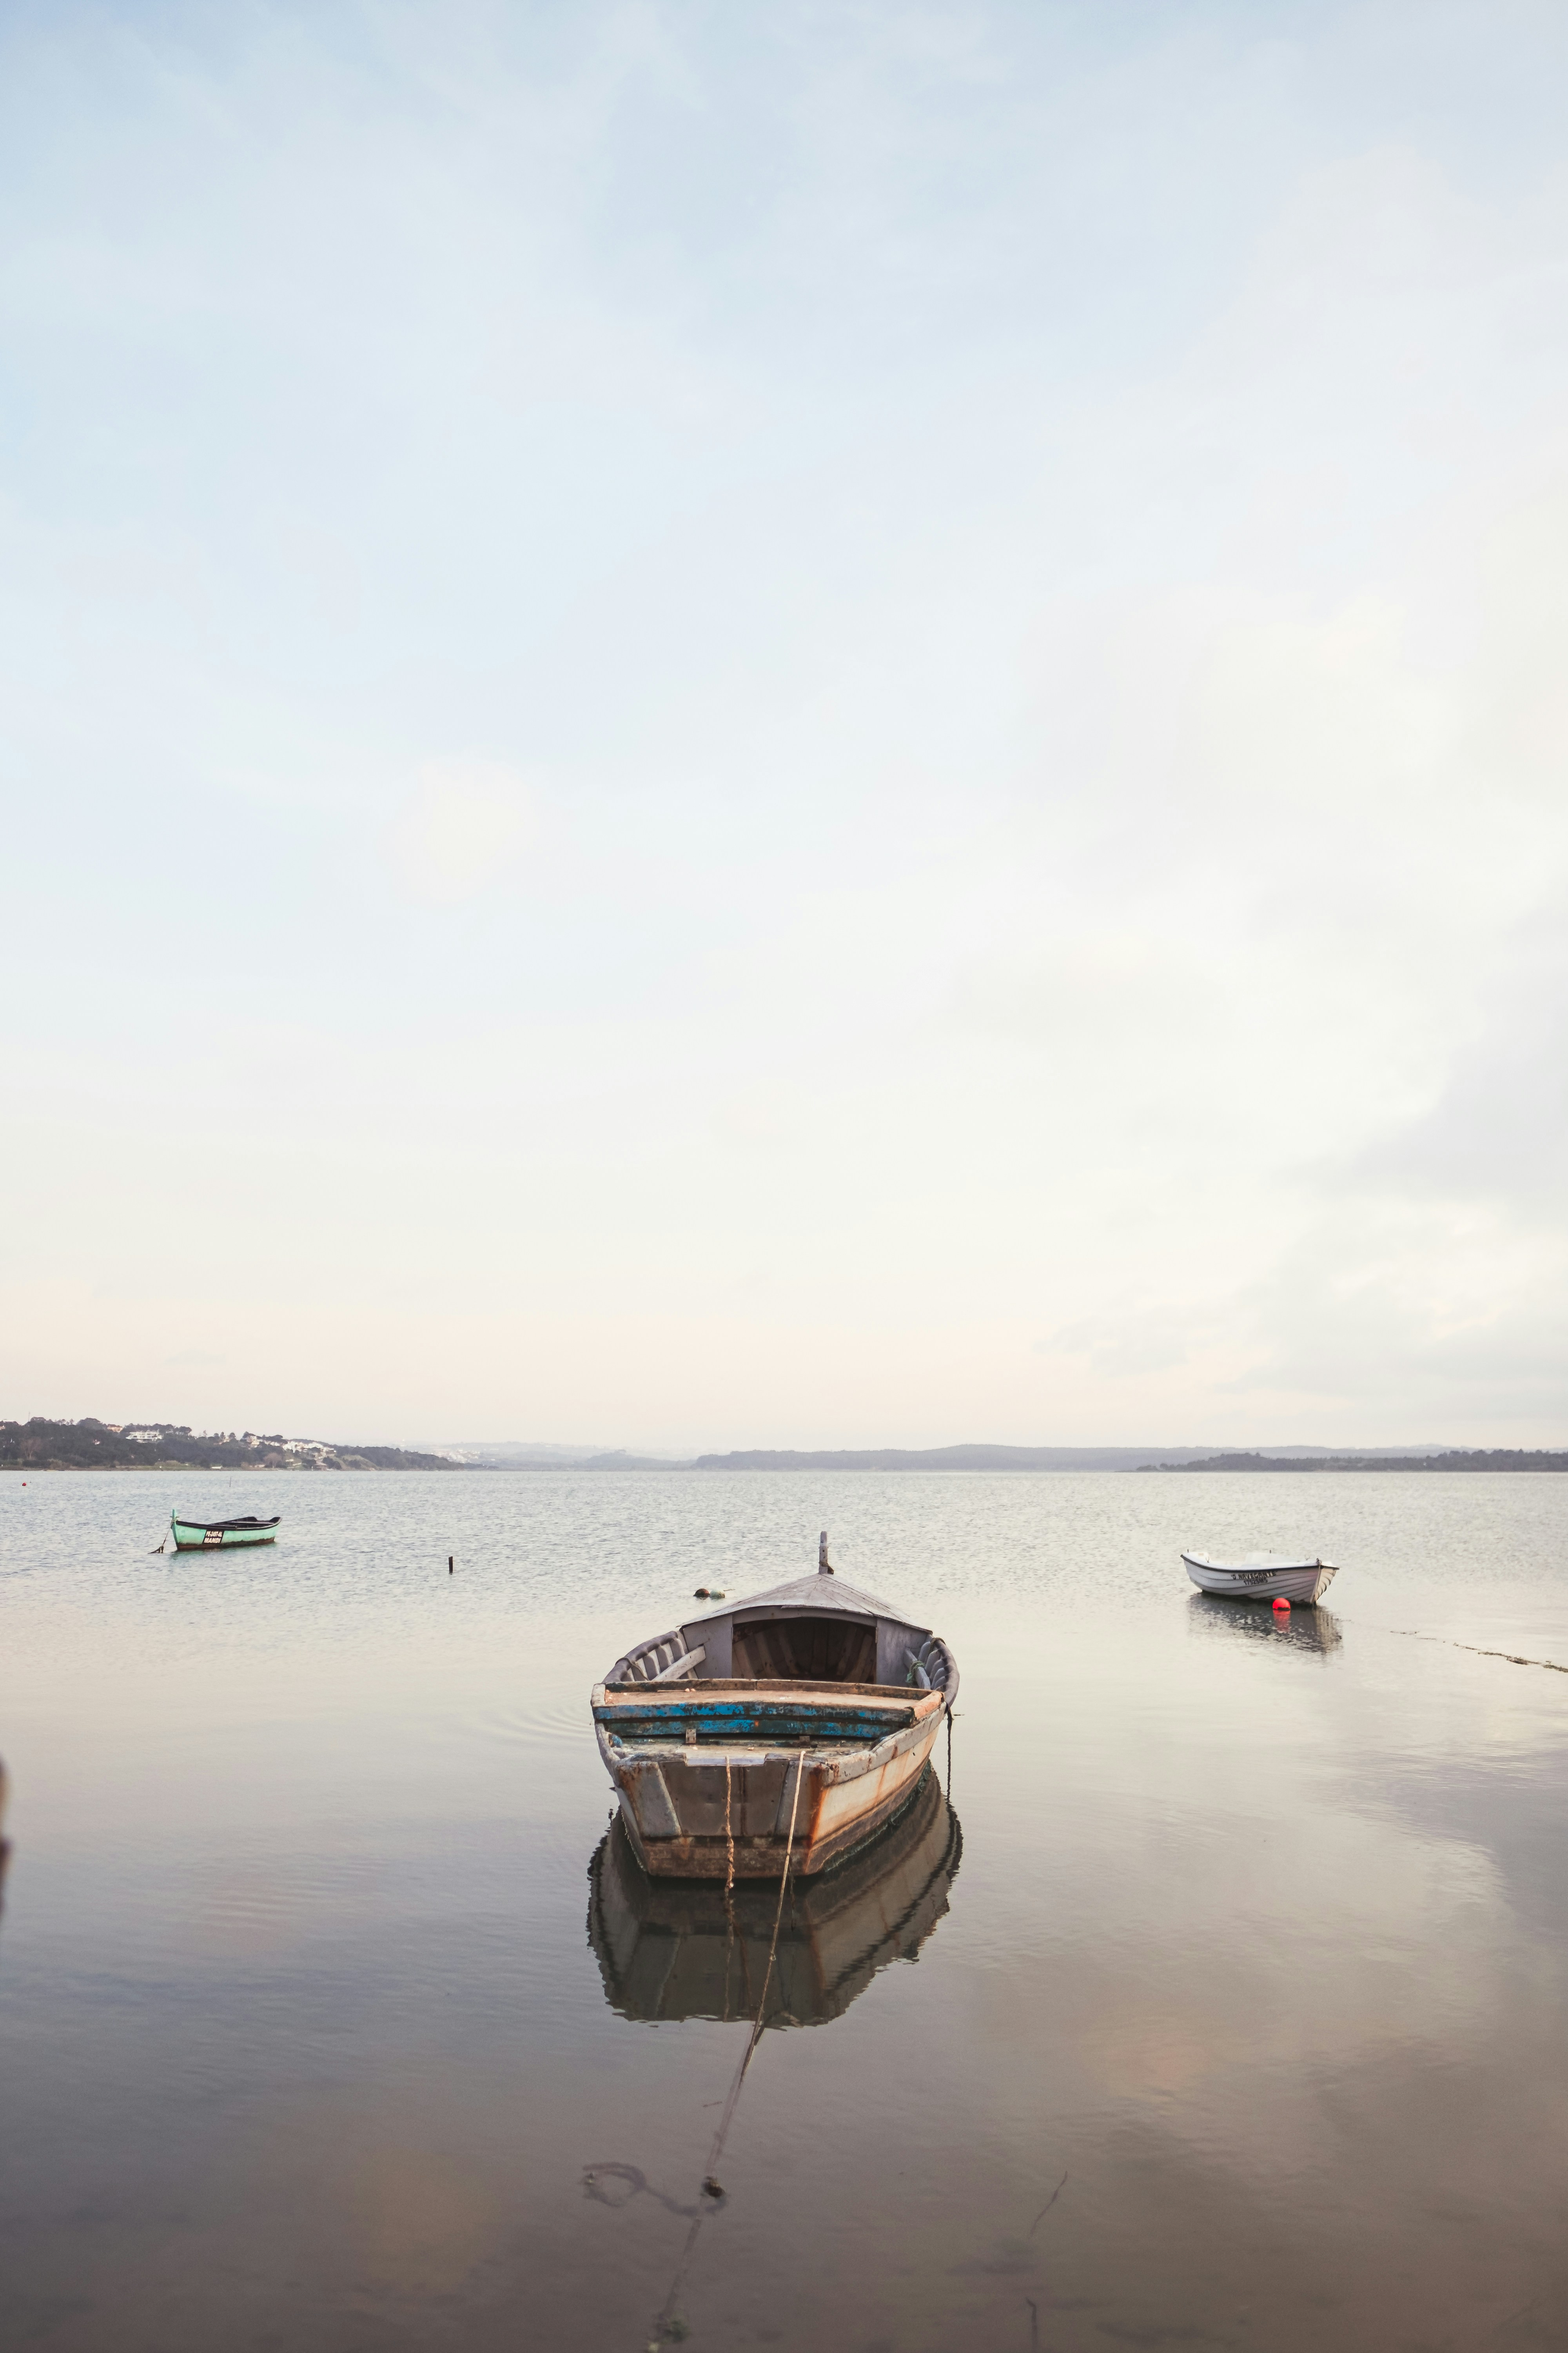
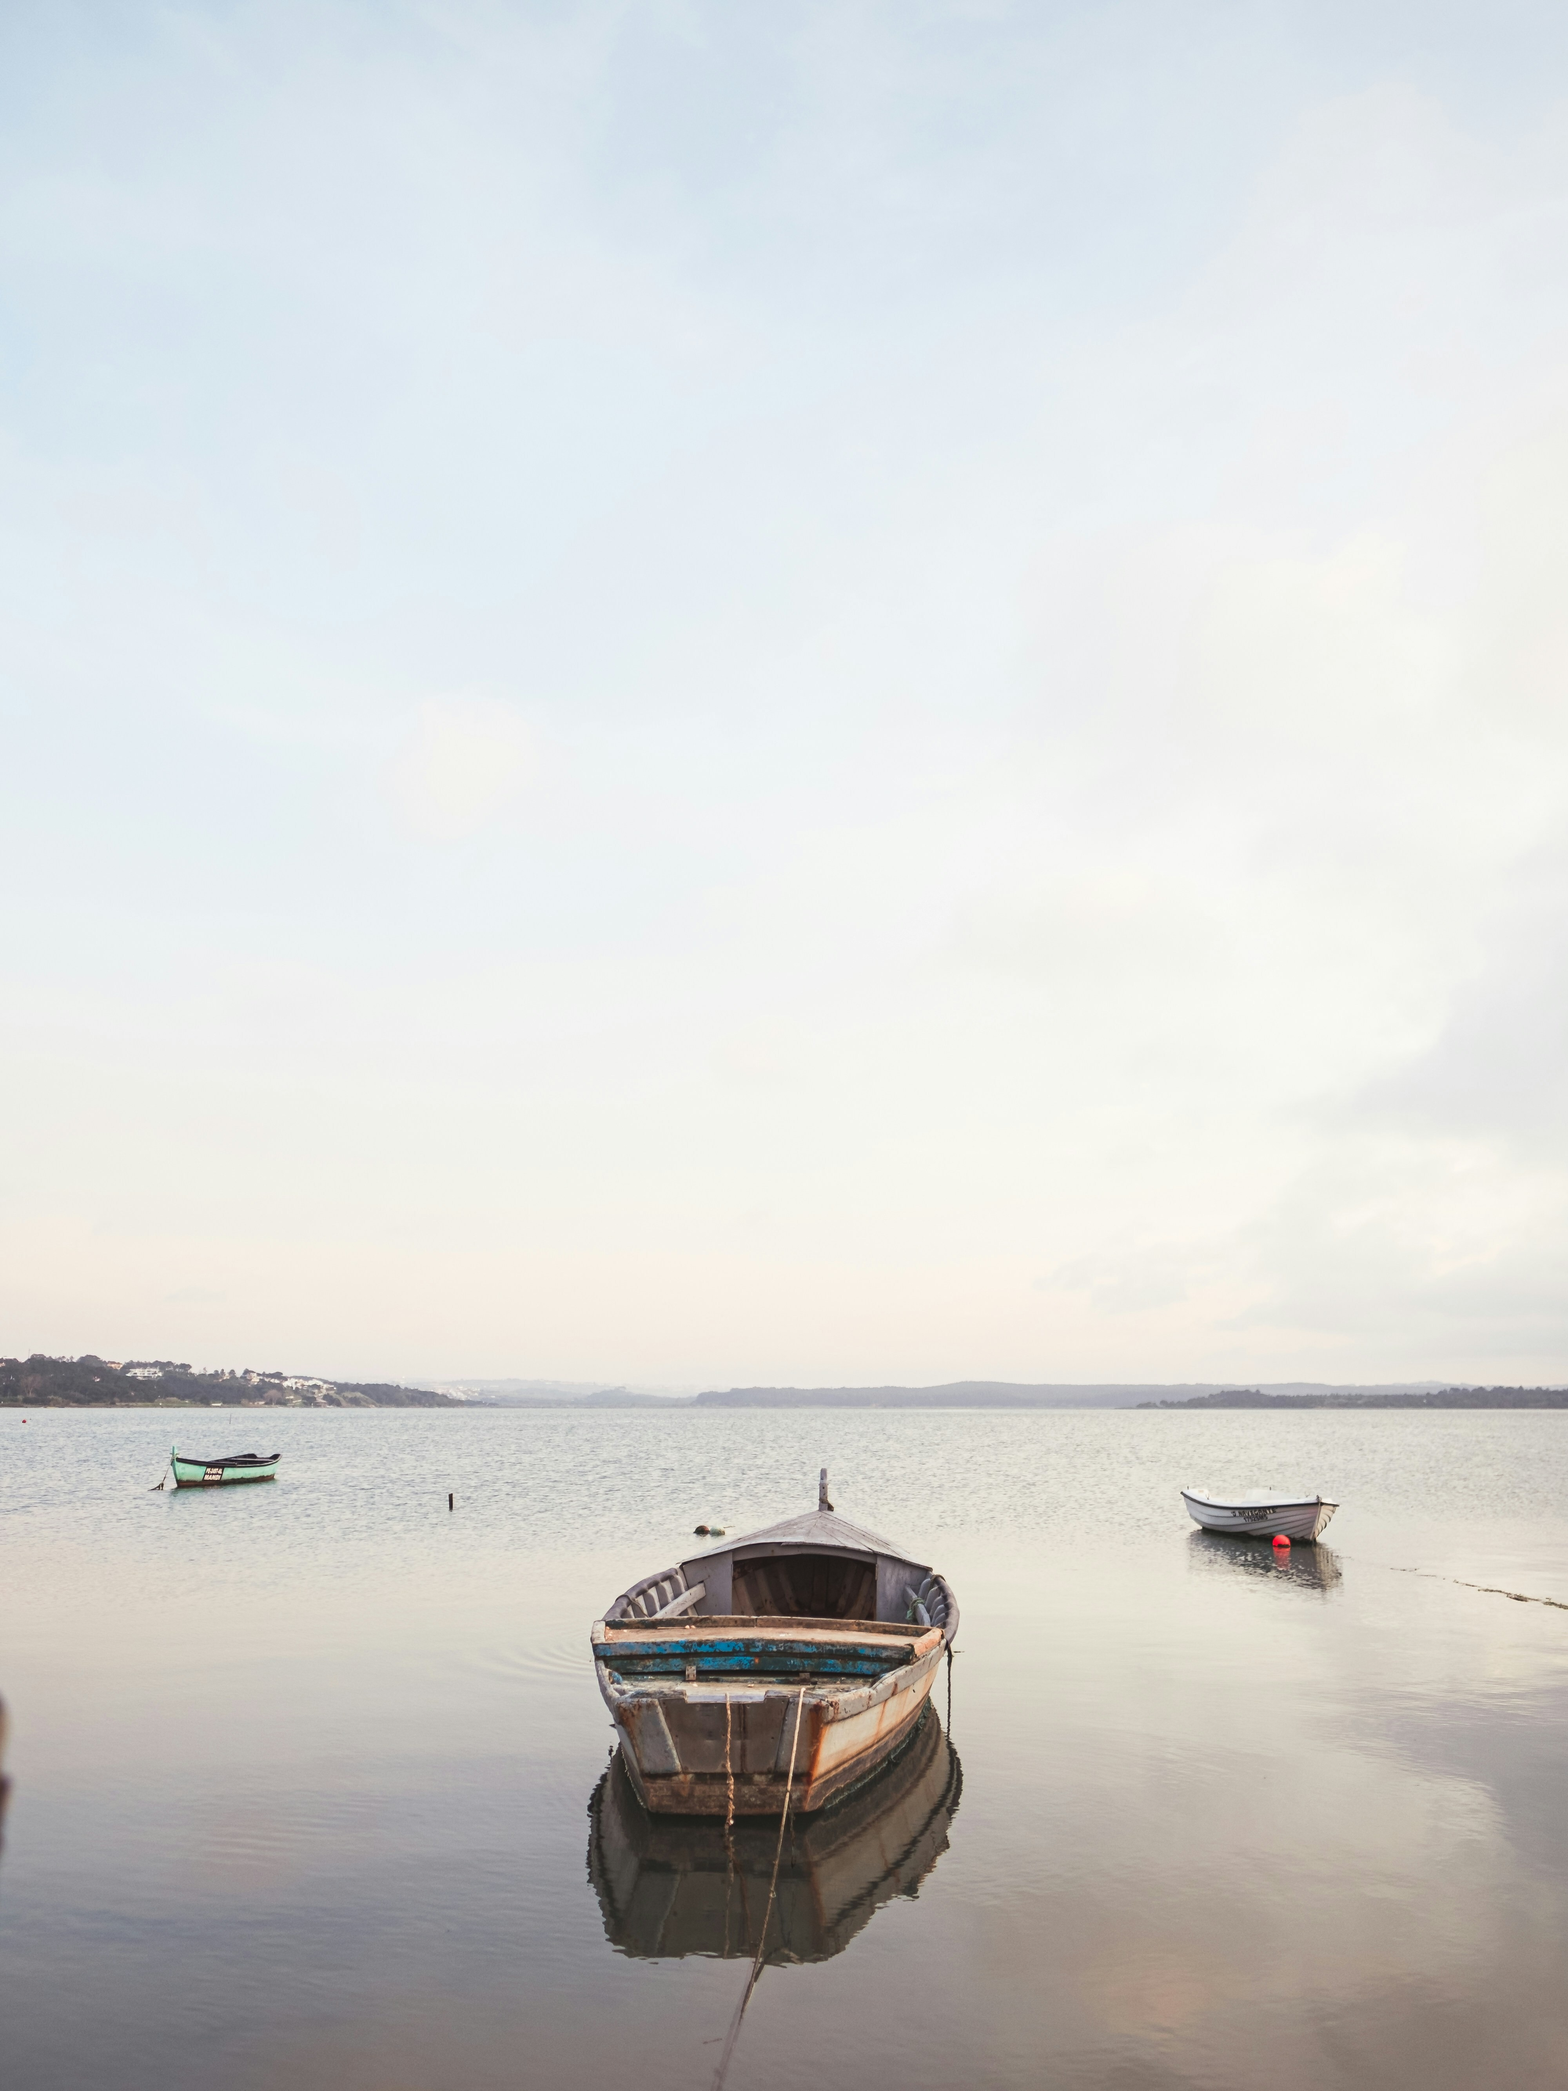
Corrected the images and added a responsive gallery

Changed region(s): [[0.0, 0.5914, 1.0, 1.0]]

diff --git a/index.html b/index.html
@@ -50,7 +50,7 @@
             </p>
           </div>
         </section>
-        <section class="secondary">
+        <section class="primary">
           <h3 class="text-center">Restaurants</h3>
           <h2 class="text-center">My favorite restaurants</h2>
 
@@ -165,6 +165,21 @@
                 >
               </div>
             </div>
+          </div>
+        </section>
+
+        <section class="secondary">
+          <h3 class="text-center">Gallery</h3>
+          <h2 class="text-center">Photos from Caldas da Rainha</h2>
+
+          <div class="grid grid-3c">
+            <img
+              src="images/umbrela.jpg"
+              class="img-responsive"
+              alt="umbrelas"
+            />
+            <img src="images/door.jpg" class="img-responsive" alt="door" />
+            <img src="images/beach.jpg" class="img-responsive" alt="beach" />
           </div>
         </section>
       </main>

diff --git a/src/style.css b/src/style.css
@@ -62,10 +62,11 @@ section {
   padding: 100px;
 }
 
-section.secondary {
+section.primary {
   background-color: #f8f8f8;
 }
 
+section.primary h2,
 section.secondary h2 {
   margin-bottom: 30px;
 }
@@ -86,7 +87,7 @@ main h3 {
 }
 
 main h2 {
-  font-weight: 600;
+  font-weight: 700;
   font-size: 40px;
   color: #1f2413d2;
   margin: 5px 0px;
@@ -228,6 +229,10 @@ footer p {
 
   .embed {
     aspect-ratio: 16 / 9;
+  }
+
+  .grid-3c {
+    grid-gap: 30px;
   }
 }
 
